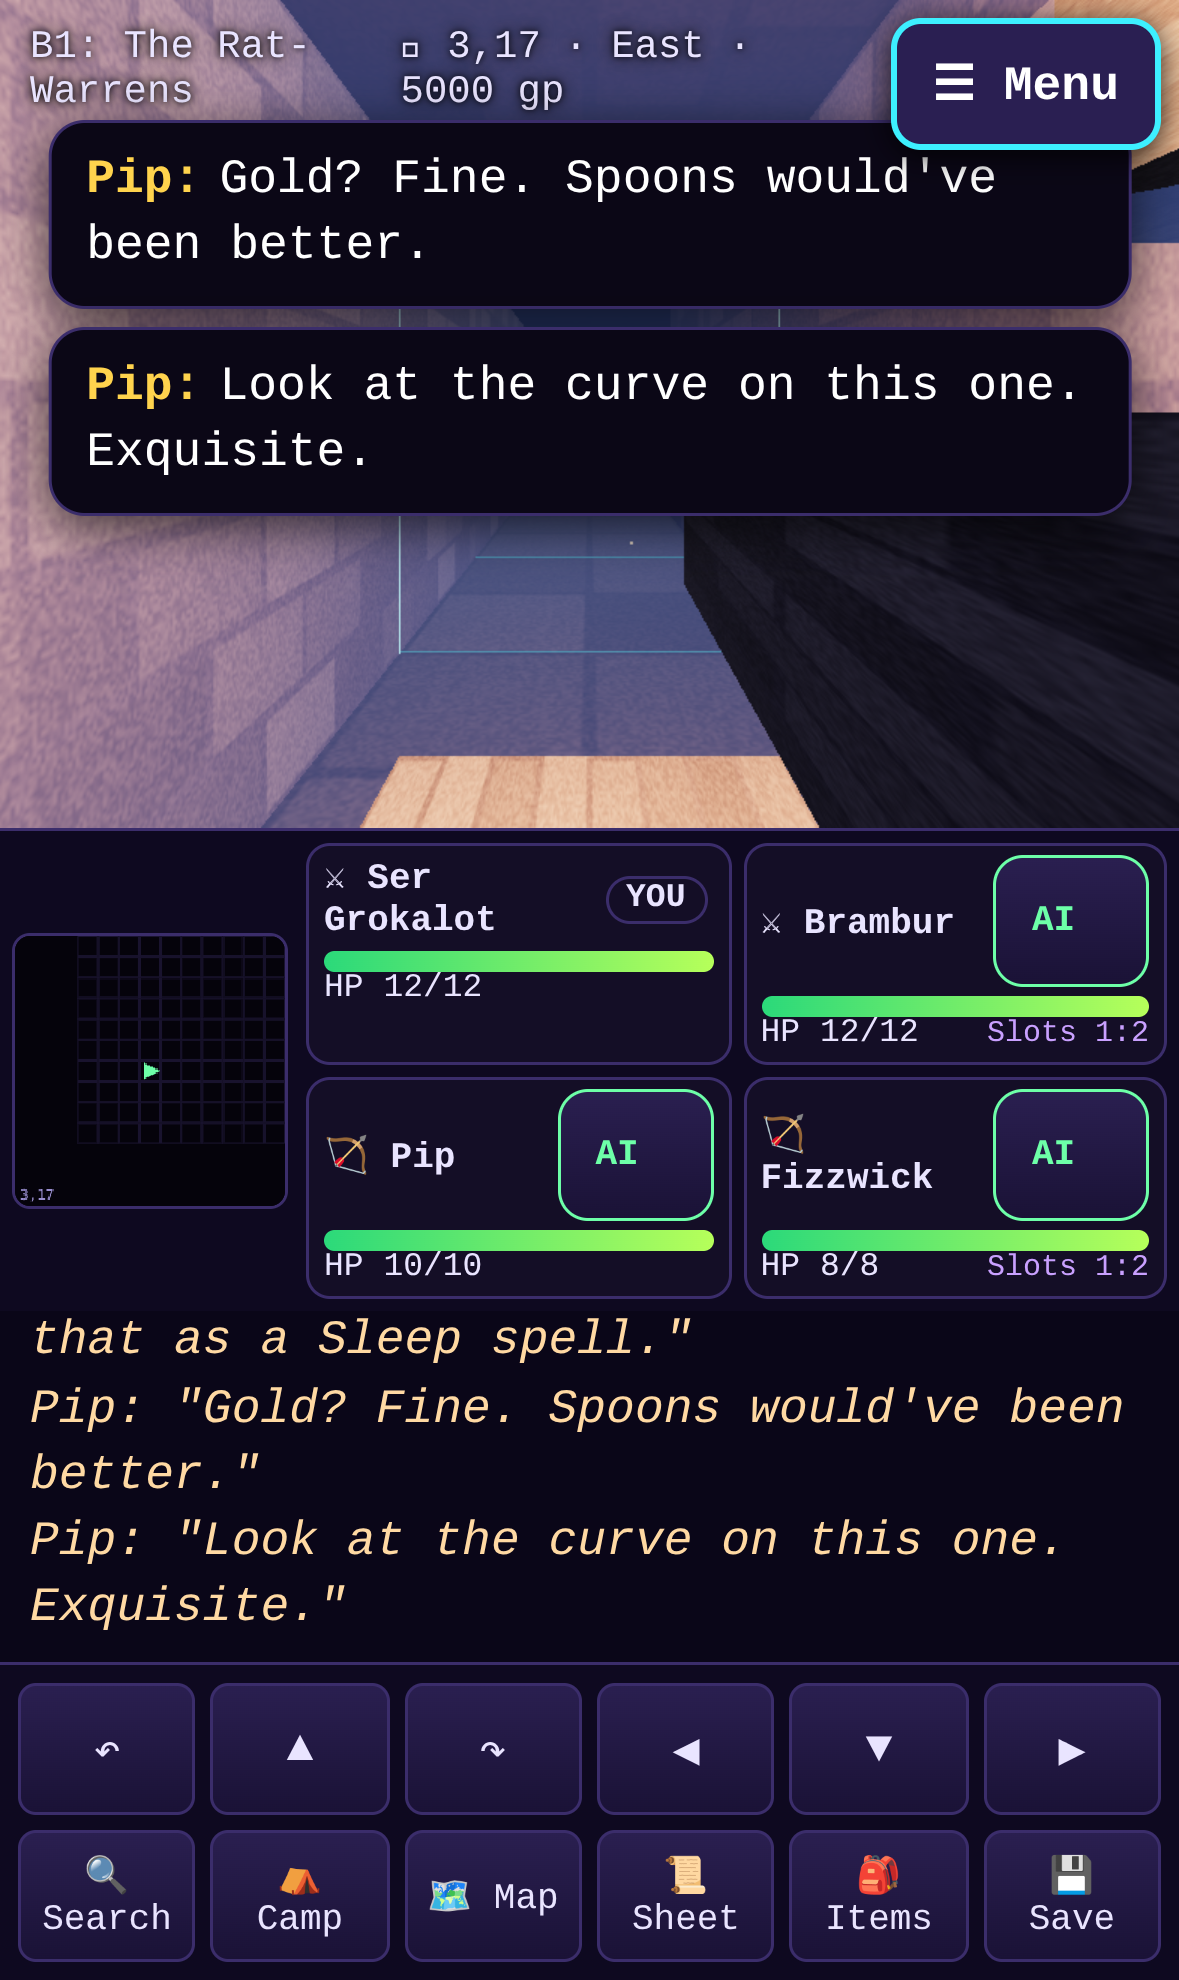
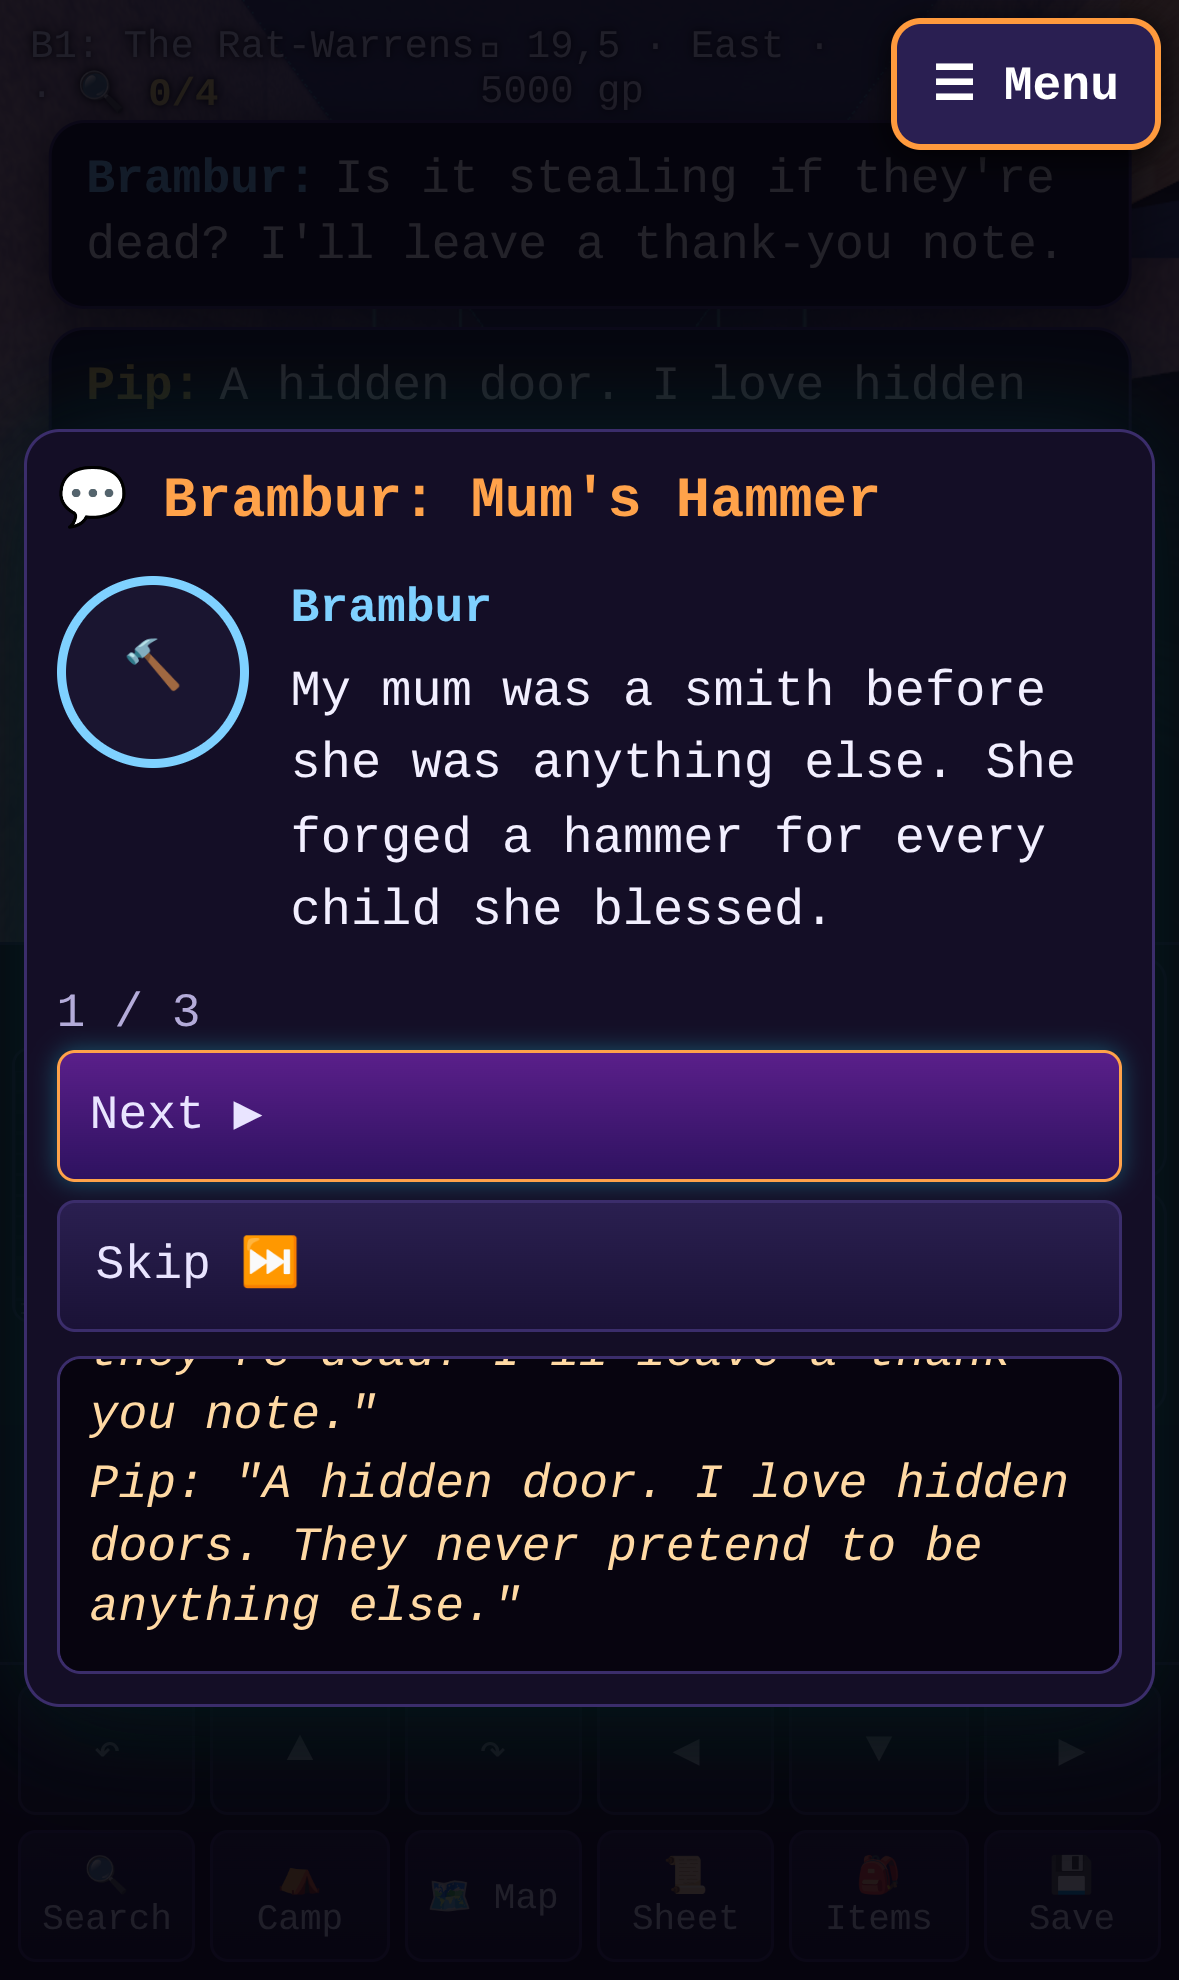
Phone in-dialog message strip (chest/trap search) 16px; restore text spec's 16px floor

diff --git a/src/style.css b/src/style.css
@@ -686,7 +686,7 @@ button.bigtab { width: 100%; min-height: 52px; margin-bottom: 4px; }
 }
 /* phones: the in-dialog message strip sticks to the bottom edge of the dialog and stays short, so a message never scrolls the buttons out of view */
 @media (max-width: 760px), (max-height: 520px) and (orientation: landscape) {
-  .panel > .dlgout { position: sticky; bottom: -14px; z-index: 2; max-height: 13dvh; font-size: 13px; line-height: 1.3; margin-top: 8px; }
+  .panel > .dlgout { position: sticky; bottom: -14px; z-index: 2; max-height: 16dvh; font-size: 16px; line-height: 1.3; margin-top: 8px; }
 }
 /* iPhone landscape: the same compact party cards and short log, so the whole action menu fits; the hero portrait and the Menu button no longer stack */
 @media (max-height: 520px) and (orientation: landscape) {

diff --git a/e2e/text.spec.js b/e2e/text.spec.js
@@ -18,7 +18,7 @@ test('chest + trap search, companion talk and banter text is crisp and readable'
     for (let i = 0; i < 4 && await page.locator('.dialogue').count(); i++) { await page.locator('#dlg-next').click(); await page.waitForTimeout(150); }
   }
   await expect(page.locator('#modal .dlgout')).toBeVisible();
-  await auditText(page, '#modal .panel', phone ? 13 : minPx); // the phone layout keeps the in-dialog log compact (13px, sticky, style.css Job A)
+  await auditText(page, '#modal .panel', minPx);
   await page.locator('#modal .backbtn').first().click();
   // dungeon: stand on a chest and search it for traps
   await page.locator('#modal button', { hasText: 'Edge of Town' }).click(); await page.click('#btn-enter');
